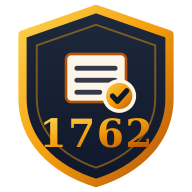
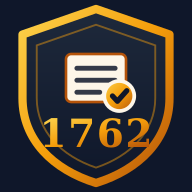
رفع مشکل نمایش لوگو در نتایج جستجوی گوگل
- افزودن آیکون ۴۸px و ۹۶px (گوگل آیکون کوچکتر از ۴۸px را نادیده میگیرد)
- حذف معرفی آیکون ۱۶x۱۶ از HTML طبق توصیه صریح گوگل
- افزودن پسزمینه تخت به آیکونهای ۴۸px به بالا تا روی پسزمینه سفید
  نتایج گوگل محو نشوند (شفافیت باعث نامرئی شدن میشد)
- ساخت logo-512x512.png با پسزمینه سفید مخصوص Schema.org
- تبدیل logo در Schema به ImageObject با width و height صریح
- افزودن نوع Organization در کنار Notary تا گوگل لوگوی پنل را بخواند
- افزودن @id و sameAs برای تثبیت هویت کسبوکار
- هماهنگسازی site.webmanifest با آیکونهای جدید

diff --git a/index.html b/index.html
@@ -34,10 +34,14 @@
   <meta name="twitter:image" content="https://www.1762daftarasnad.ir/og-image.png" />
 
   <!-- ================= ICONS ================= -->
+  <!-- گوگل آیکون ۴۸px به بالا را برای نمایش در نتایج جستجو انتخاب میکند.
+       آیکون ۱۶x۱۶ عمداً معرفی نشده چون گوگل توصیه میکند آن را ارائه ندهیم. -->
   <link rel="icon" href="/favicon.ico" sizes="any" />
   <link rel="icon" type="image/svg+xml" href="/favicon.svg" />
-  <link rel="icon" type="image/png" sizes="16x16" href="/favicon-16x16.png" />
   <link rel="icon" type="image/png" sizes="32x32" href="/favicon-32x32.png" />
+  <link rel="icon" type="image/png" sizes="48x48" href="/favicon-48x48.png" />
+  <link rel="icon" type="image/png" sizes="96x96" href="/favicon-96x96.png" />
+  <link rel="icon" type="image/png" sizes="192x192" href="/android-chrome-192x192.png" />
   <link rel="apple-touch-icon" sizes="180x180" href="/apple-touch-icon.png" />
   <link rel="manifest" href="/site.webmanifest" />
   <meta name="theme-color" content="#0f172a" />
@@ -51,15 +55,26 @@
   <script type="application/ld+json">
   {
     "@context": "https://schema.org",
-    "@type": "Notary",
+    "@type": ["Notary", "Organization"],
+    "@id": "https://www.1762daftarasnad.ir/#organization",
     "name": "دفتر اسناد رسمی شماره ۱۷۶۲ تهران",
     "alternateName": "دفترخانه ۱۷۶۲",
     "url": "https://www.1762daftarasnad.ir/",
-    "logo": "https://www.1762daftarasnad.ir/android-chrome-512x512.png",
+    "logo": {
+      "@type": "ImageObject",
+      "url": "https://www.1762daftarasnad.ir/logo-512x512.png",
+      "width": 512,
+      "height": 512
+    },
     "image": "https://www.1762daftarasnad.ir/og-image.png",
     "description": "دفتر اسناد رسمی شماره ۱۷۶۲ تهران ارائهدهنده خدمات تنظیم اسناد رسمی، وکالتنامه، اجارهنامه، صلح عمری، رهن و فک رهن.",
     "telephone": "+982126212506",
     "email": "no1762notarypublic@gmail.com",
+    "sameAs": [
+      "https://t.me/No1762notarypublic",
+      "https://eitaa.com/No1762notarypublic",
+      "https://wa.me/989211762186"
+    ],
     "address": {
       "@type": "PostalAddress",
       "addressCountry": "IR",
